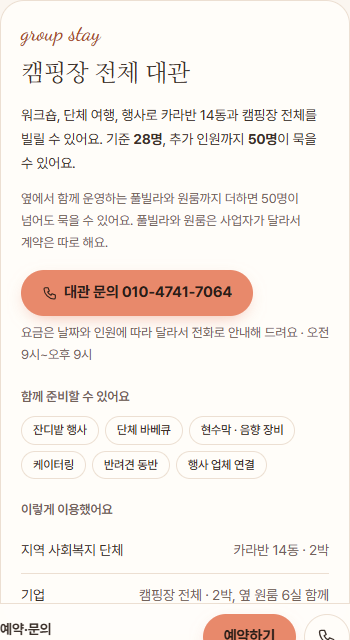
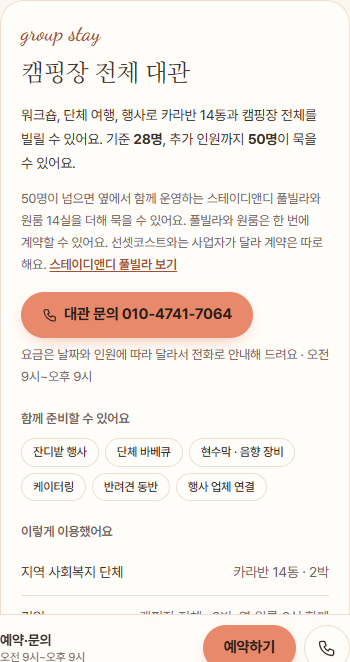
스테이디앤디 링크 추가 (푸터, 전체 대관) + GA4용 UTM
- 제휴 숙소 링크에 utm_source=sunsetcoast, utm_content=footer|group_rental
- 전체 대관: 50명이 넘으면 옆 스테이디앤디 원룸 14실·풀빌라 4동 안내

diff --git a/src/app/reservation/page.tsx b/src/app/reservation/page.tsx
@@ -3,7 +3,7 @@ import { CopyButton } from '@/components/CopyButton';
 import { Icon } from '@/components/Icon';
 import { getSiteData } from '@/lib/data';
 import { bookingFor, won } from '@/lib/rooms';
-import { faqJsonLd, jsonLd, pageMeta } from '@/lib/seo';
+import { faqJsonLd, jsonLd, pageMeta, partnerUrl } from '@/lib/seo';
 
 const data = getSiteData();
 export const metadata = pageMeta(data, {
@@ -15,6 +15,7 @@ export const metadata = pageMeta(data, {
 export default function ReservationPage() {
   const { settings: s, policies: p, extraPersonFee: fee, groupRental: g } = data;
   const booking = bookingFor(data);
+  const partner = partnerUrl(data, 'group_rental');
   return (
     <>
       <script type="application/ld+json" dangerouslySetInnerHTML={jsonLd(faqJsonLd(data))} />
@@ -127,7 +128,19 @@ export default function ReservationPage() {
               워크숍, 단체 여행, 행사로 카라반 {data.rooms.filter((r) => r.visible).length}동과 캠핑장 전체를 빌릴 수 있어요.
               기준 <b>{g.guestsBase}명</b>, 추가 인원까지 <b>{g.guestsMax}명</b>이 묵을 수 있어요.
             </p>
-            {g.neighborNote && <p className="text-[13px] text-mute">{g.neighborNote}</p>}
+            {g.neighborNote && (
+              <p className="text-[13px] text-mute">
+                {g.neighborNote}
+                {partner && (
+                  <>
+                    {' '}
+                    <a href={partner} target="_blank" rel="noopener" className="font-semibold text-coral underline underline-offset-2" data-track="partner_click" data-placement="group_rental">
+                      {s.partner.name} 보기
+                    </a>
+                  </>
+                )}
+              </p>
+            )}
             <div className="mt-1 flex flex-col gap-1.5">
               <a href={`tel:${s.phone.replaceAll('-', '')}`} className="btn btn-primary self-start" data-track="call_click" data-context="group">
                 <Icon name="phone" className="size-4" />

diff --git a/src/lib/seed/index.ts b/src/lib/seed/index.ts
@@ -164,7 +164,7 @@ export const SEED: Omit<SiteData, 'rooms'> & { rooms: RoomSeed[] } = {
     instagram: 'sunsetcoast_jeju',
     naverPlaceId: '1203944529',
     instagramPhotos: ['site/night/night-01', 'site/hero/hero-03', 'site/dolphin/dolphin-03', 'site/facility/picnic-01', 'site/night/night-03', 'site/hero/hero-04'],
-    partner: { name: '스테이디앤디 풀빌라', url: null },
+    partner: { name: '스테이디앤디 풀빌라', url: 'http://staydndpoolvilla.co.kr/html/index.html' },
     bookingPlatforms: [
       { key: 'ddnayo', label: '예약하기', url: 'http://www.ddnayo.com/RsvSys/?id_hotel=16384' },
       { key: 'naver', label: '네이버 예약', url: '' },
@@ -281,7 +281,8 @@ export const SEED: Omit<SiteData, 'rooms'> & { rooms: RoomSeed[] } = {
     guestsBase: 28,
     guestsMax: 50,
     features: ['잔디밭 행사', '단체 바베큐', '현수막 · 음향 장비', '케이터링', '반려견 동반', '행사 업체 연결'],
-    neighborNote: '옆에서 함께 운영하는 풀빌라와 원룸까지 더하면 50명이 넘어도 묵을 수 있어요. 풀빌라와 원룸은 사업자가 달라서 계약은 따로 해요.',
+    // 원룸 14실은 선셋코스트 사업자, 풀빌라 4동은 스테이디앤디 사업자 (상호는 둘 다 스테이디앤디)
+    neighborNote: '50명이 넘으면 옆 스테이디앤디의 원룸 14실과 풀빌라 4동을 더해 묵을 수 있어요.',
     cases: [
       { who: '지역 사회복지 단체', stay: '카라반 14동 · 2박' },
       { who: '기업', stay: '캠핑장 전체 · 2박, 옆 원룸 6실 함께' },

diff --git a/src/components/SiteFooter.tsx b/src/components/SiteFooter.tsx
@@ -1,9 +1,12 @@
 import Link from 'next/link';
 import { getSiteData } from '@/lib/data';
 import { MENU } from '@/lib/menu';
+import { partnerUrl } from '@/lib/seo';
 
 export function SiteFooter() {
-  const { settings: s } = getSiteData();
+  const data = getSiteData();
+  const { settings: s } = data;
+  const partner = partnerUrl(data, 'footer');
   return (
     <footer className="border-t border-line pb-32 pt-10 text-[13px] text-mute">
       <div className="wrap grid gap-8 md:grid-cols-[1.5fr_1fr]">
@@ -24,8 +27,8 @@ export function SiteFooter() {
               @{s.instagram}
             </a>
             {' · '}제휴 숙소{' '}
-            {s.partner.url ? (
-              <a className="underline underline-offset-2" href={s.partner.url} target="_blank" rel="noopener">{s.partner.name}</a>
+            {partner ? (
+              <a className="underline underline-offset-2" href={partner} target="_blank" rel="noopener" data-track="partner_click" data-placement="footer">{s.partner.name}</a>
             ) : (
               s.partner.name
             )}

diff --git a/src/lib/seo.ts b/src/lib/seo.ts
@@ -35,6 +35,15 @@ export const naverPlaceUrl = (data: SiteData, tab?: 'review') => {
   return `https://map.naver.com/p/entry/place/${id}${tab ? `?placePath=%2F${tab}` : ''}`;
 };
 
+/** 제휴 숙소 링크. 상대 사이트의 GA4가 유입 경로와 누른 위치를 알 수 있도록 UTM을 붙인다 */
+export const partnerUrl = (data: SiteData, placement: 'footer' | 'group_rental') => {
+  const base = data.settings.partner.url;
+  if (!base) return null;
+  const u = new URL(base);
+  u.search = new URLSearchParams({ utm_source: 'sunsetcoast', utm_medium: 'referral', utm_campaign: 'partner', utm_content: placement }).toString();
+  return u.toString();
+};
+
 /** 구조화 데이터: 웹사이트 이름 (구글 검색 결과의 사이트 이름) */
 export function websiteJsonLd(data: SiteData) {
   const s = data.settings;

diff --git a/docs/01-questions.md b/docs/01-questions.md
@@ -30,7 +30,7 @@
 | 2026-10-28 | 예약 버튼 | 플랫폼 이름 대신 **"예약하기"**로 표시 |
 | 2026-10-28 | N13 | "가성비" → **"스탠다드"**. 이익이 적은 등급이라 프리미엄·에어스트림으로 예약을 유도한다 (스탠다드 객실 상세의 추천 객실은 위 등급 먼저) |
 | 2026-10-30 | 데이터 | DB·관리자 화면은 만들지 않는다. 데이터는 프론트엔드(`src/lib/seed`)에서 관리하고, 필요해지면 그때 개발한다 (10-28 "백엔드 DB" 결정 취소) |
-| 2026-10-30 | 전체 대관 | 캠핑장 전체 대관 가능. 기준 28명, 추가 인원 포함 50명. 옆 풀빌라·원룸(다른 사업자)과 함께 쓰면 그 이상도 가능. 요금은 "문의", 문의는 전화. 행사·바베큐·현수막·음향·케이터링·반려견 모두 가능, 행사 업체 연결 가능. 이용 사례 두 곳(사회복지 단체: 카라반 14동 2박 / 기업: 전체 대관 2박 + 원룸 6실)은 **이름 사용 동의를 받지 않아** 이름 없이 적는다. 사진 없음 |
+| 2026-10-30 | 전체 대관 | 캠핑장 전체 대관 가능. 기준 28명, 추가 인원 포함 50명. 옆 스테이디앤디(상호)의 원룸 14실과 풀빌라 4동을 더하면 그 이상도 가능. 원룸은 선셋코스트 사업자라 캠핑장과 한 번에 계약, 풀빌라는 스테이디앤디 사업자라 따로 계약. 요금은 "문의", 문의는 전화. 행사·바베큐·현수막·음향·케이터링·반려견 모두 가능, 행사 업체 연결 가능. 이용 사례 두 곳(사회복지 단체: 카라반 14동 2박 / 기업: 전체 대관 2박 + 원룸 6실)은 **이름 사용 동의를 받지 않아** 이름 없이 적는다. 사진 없음 |
 | 2026-10-30 | 방송 | JTBC 〈끝사랑〉 8회(2024-10-10, 정은주·우형준 님이 머문 숙소, 노을 보며 대화하는 장면)와 SBS 〈고수열전〉 92회(2025-07-27, 현장을 맡은 추은석 사장님과 캠핑장)에 나왔다. 방송 캡처는 저작권 때문에 쓰지 않고 공식 유튜브 영상과 글로만 소개한다. 홈에 한 줄, 소개 페이지에 영상 |
 
 ## 현재 사이트에서 새로 확인한 값과 충돌 (확인 필요)
